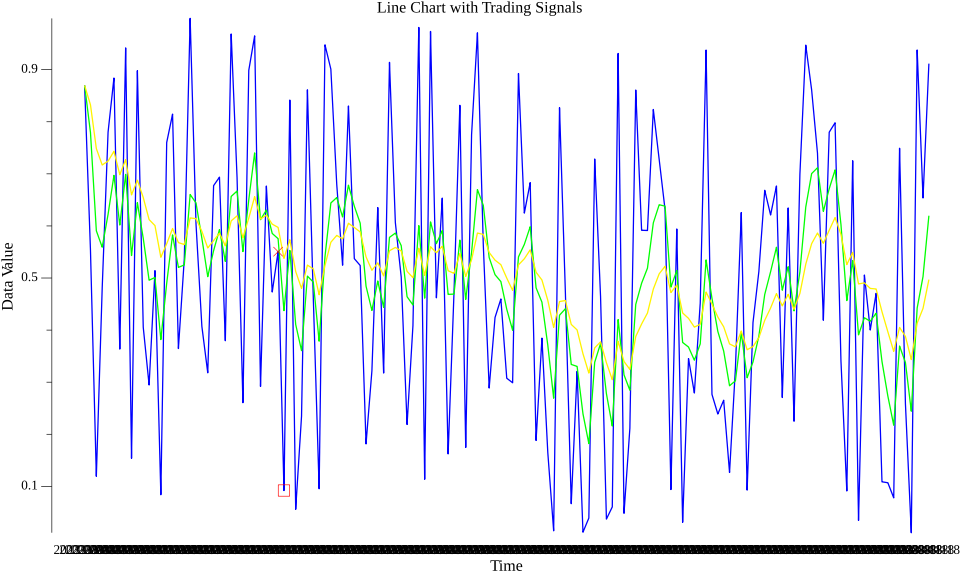
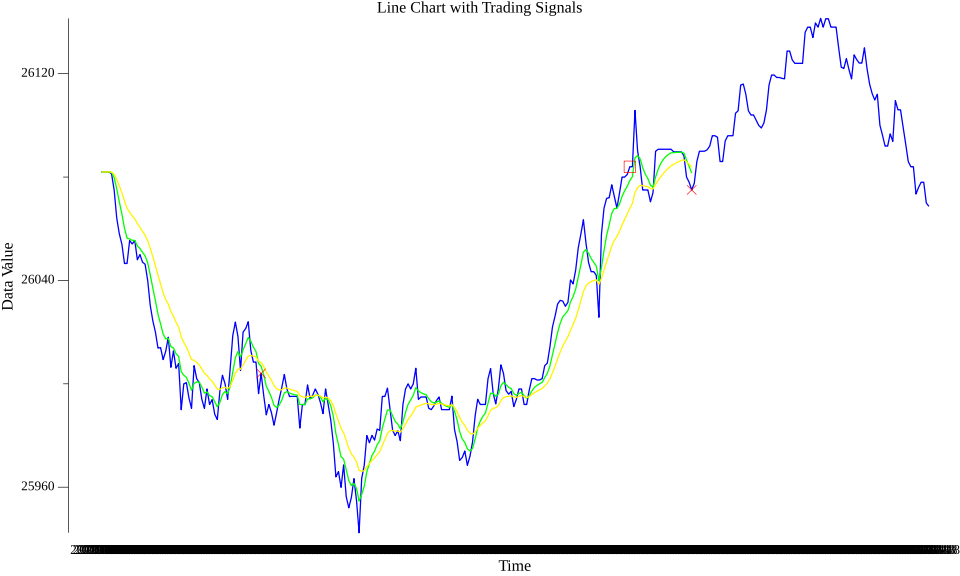
Ready with MVP

diff --git a/strategies/strategies.go b/strategies/strategies.go
@@ -767,17 +767,17 @@ func (ts *TradingSystem) Reporting(md *model.AppData, from string)error{
 	fmt.Println()
 	
 	if len(ts.Container1) > 0 && (!strings.Contains(md.Strategy, "Bollinger")) && (!strings.Contains(md.Strategy, "EMA")) && (!strings.Contains(md.Strategy, "MACD")) {
-		err = CreateLineChartWithSignals(ts.Timestamps, ts.ClosingPrices, ts.Signals, "DataOnly")
+		err = CreateLineChartWithSignals(ts.Timestamps, ts.ClosingPrices, ts.Signals, "")
 		err = CreateLineChartWithSignals(ts.Timestamps, ts.Container1, ts.Signals, "StrategyOnly")
 	} else if len(ts.Container1) > 0 && strings.Contains(md.Strategy, "Bollinger") {
-		err = CreateLineChartWithSignalsV3(ts.Timestamps, ts.ClosingPrices, ts.Container1, ts.Container2, ts.Signals, "DataStrategies")
+		err = CreateLineChartWithSignalsV3(ts.Timestamps, ts.ClosingPrices, ts.Container1, ts.Container2, ts.Signals, "")
 	} else if len(ts.Container1) > 0 && strings.Contains(md.Strategy, "EMA") {
-		err = CreateLineChartWithSignalsV3(ts.Timestamps, ts.ClosingPrices, ts.Container1, ts.Container2, ts.Signals, "DataStrategies")
+		err = CreateLineChartWithSignalsV3(ts.Timestamps, ts.ClosingPrices, ts.Container1, ts.Container2, ts.Signals, "")
 	} else if len(ts.Container1) > 0 && strings.Contains(md.Strategy, "MACD") {
-		err = CreateLineChartWithSignals(ts.Timestamps, ts.ClosingPrices, ts.Signals, "DataOnly")
+		err = CreateLineChartWithSignals(ts.Timestamps, ts.ClosingPrices, ts.Signals, "")
 		err = CreateLineChartWithSignalsV2(ts.Timestamps, ts.Container1, ts.Container2, ts.Signals, "StrategiesOnly")
 	} else {
-		err = CreateLineChartWithSignals(ts.Timestamps, ts.ClosingPrices, ts.Signals, "DataOnly")
+		err = CreateLineChartWithSignals(ts.Timestamps, ts.ClosingPrices, ts.Signals, "")
 	}
 	if err != nil{
 		return fmt.Errorf("Error creating Line Chart with signals: %v", err)

diff --git a/binanceapi/client.go b/binanceapi/client.go
@@ -3,9 +3,9 @@ package binanceapi
 import (
 	"errors"
 	"fmt"
-	"math/rand"
 
 	"coinbitly.com/config"
+	"coinbitly.com/helper"
 	"coinbitly.com/influxdb"
 	"coinbitly.com/model"
 )
@@ -63,25 +63,20 @@ func (e *APIServices)WriteCandleToDB(ClosePrice float64, Timestamp int64) error 
 	return e.InfluxDB.WriteCandleToDB(ClosePrice, Timestamp)
 }
 
+// FetchTicker fetches and displays real-time of a given symbol
 func (e *APIServices)FetchTicker(symbol string)(CurrentPrice float64, err error){
-	CurrentPrice = rand.Float64()
-	return CurrentPrice, err
+		ticker, err := fetchTickerData(symbol, e.BaseURL, e.ApiVersion, e.ApiKey)
+		if err != nil {
+			fmt.Println("Error fetching ticker data:", err)
+			return 0.0, err
+		}
+		// Display the ticker data
+		fmt.Printf("Symbol: %s\nPrice: %s\n", ticker.Symbol, ticker.Price)
+		return helper.ParseStringToFloat(ticker.Price), nil
 }
 func (e *APIServices)WriteTickerToDB(ClosePrice float64, Timestamp int64)error{
 	return e.InfluxDB.WriteTickerToDB(ClosePrice, Timestamp)
 }
-// FetchTicker fetches and displays real-time of a given symbol
-// func (e *APIServices)FetchTicker(symbol string) (*model.TickerData, error) {
-// 	ticker, err := FetchTicker(symbol, e.BaseURL, e.ApiVersion, e.ApiKey)
-// 	if err != nil {
-// 		fmt.Println("Error fetching ticker data:", err)
-// 		return &TickerData{}, err
-// 	}
-
-// 	// Display the ticker data
-// 	fmt.Printf("Symbol: %s\nPrice: %s\n", ticker.Symbol, ticker.Price)
-// 	return ticker, nil
-// }
 
 // fetchAndDisplay24hrTickerData fetches and displays 24-hour price change statistics for the given symbol
 // func (e *APIServices)Fetch24hrChange(symbol string) (*model.Ticker24hrChange, error){

diff --git a/main.go b/main.go
@@ -7,7 +7,7 @@ import (
 )
 
 func main() {
-	loadFrom := "InfluxDB"
+	loadFrom := "Binance" //"InfluxDB"
 	liveTrading := true
     ts, err := strategies.NewTradingSystem(liveTrading, loadFrom)
 	if err != nil {
